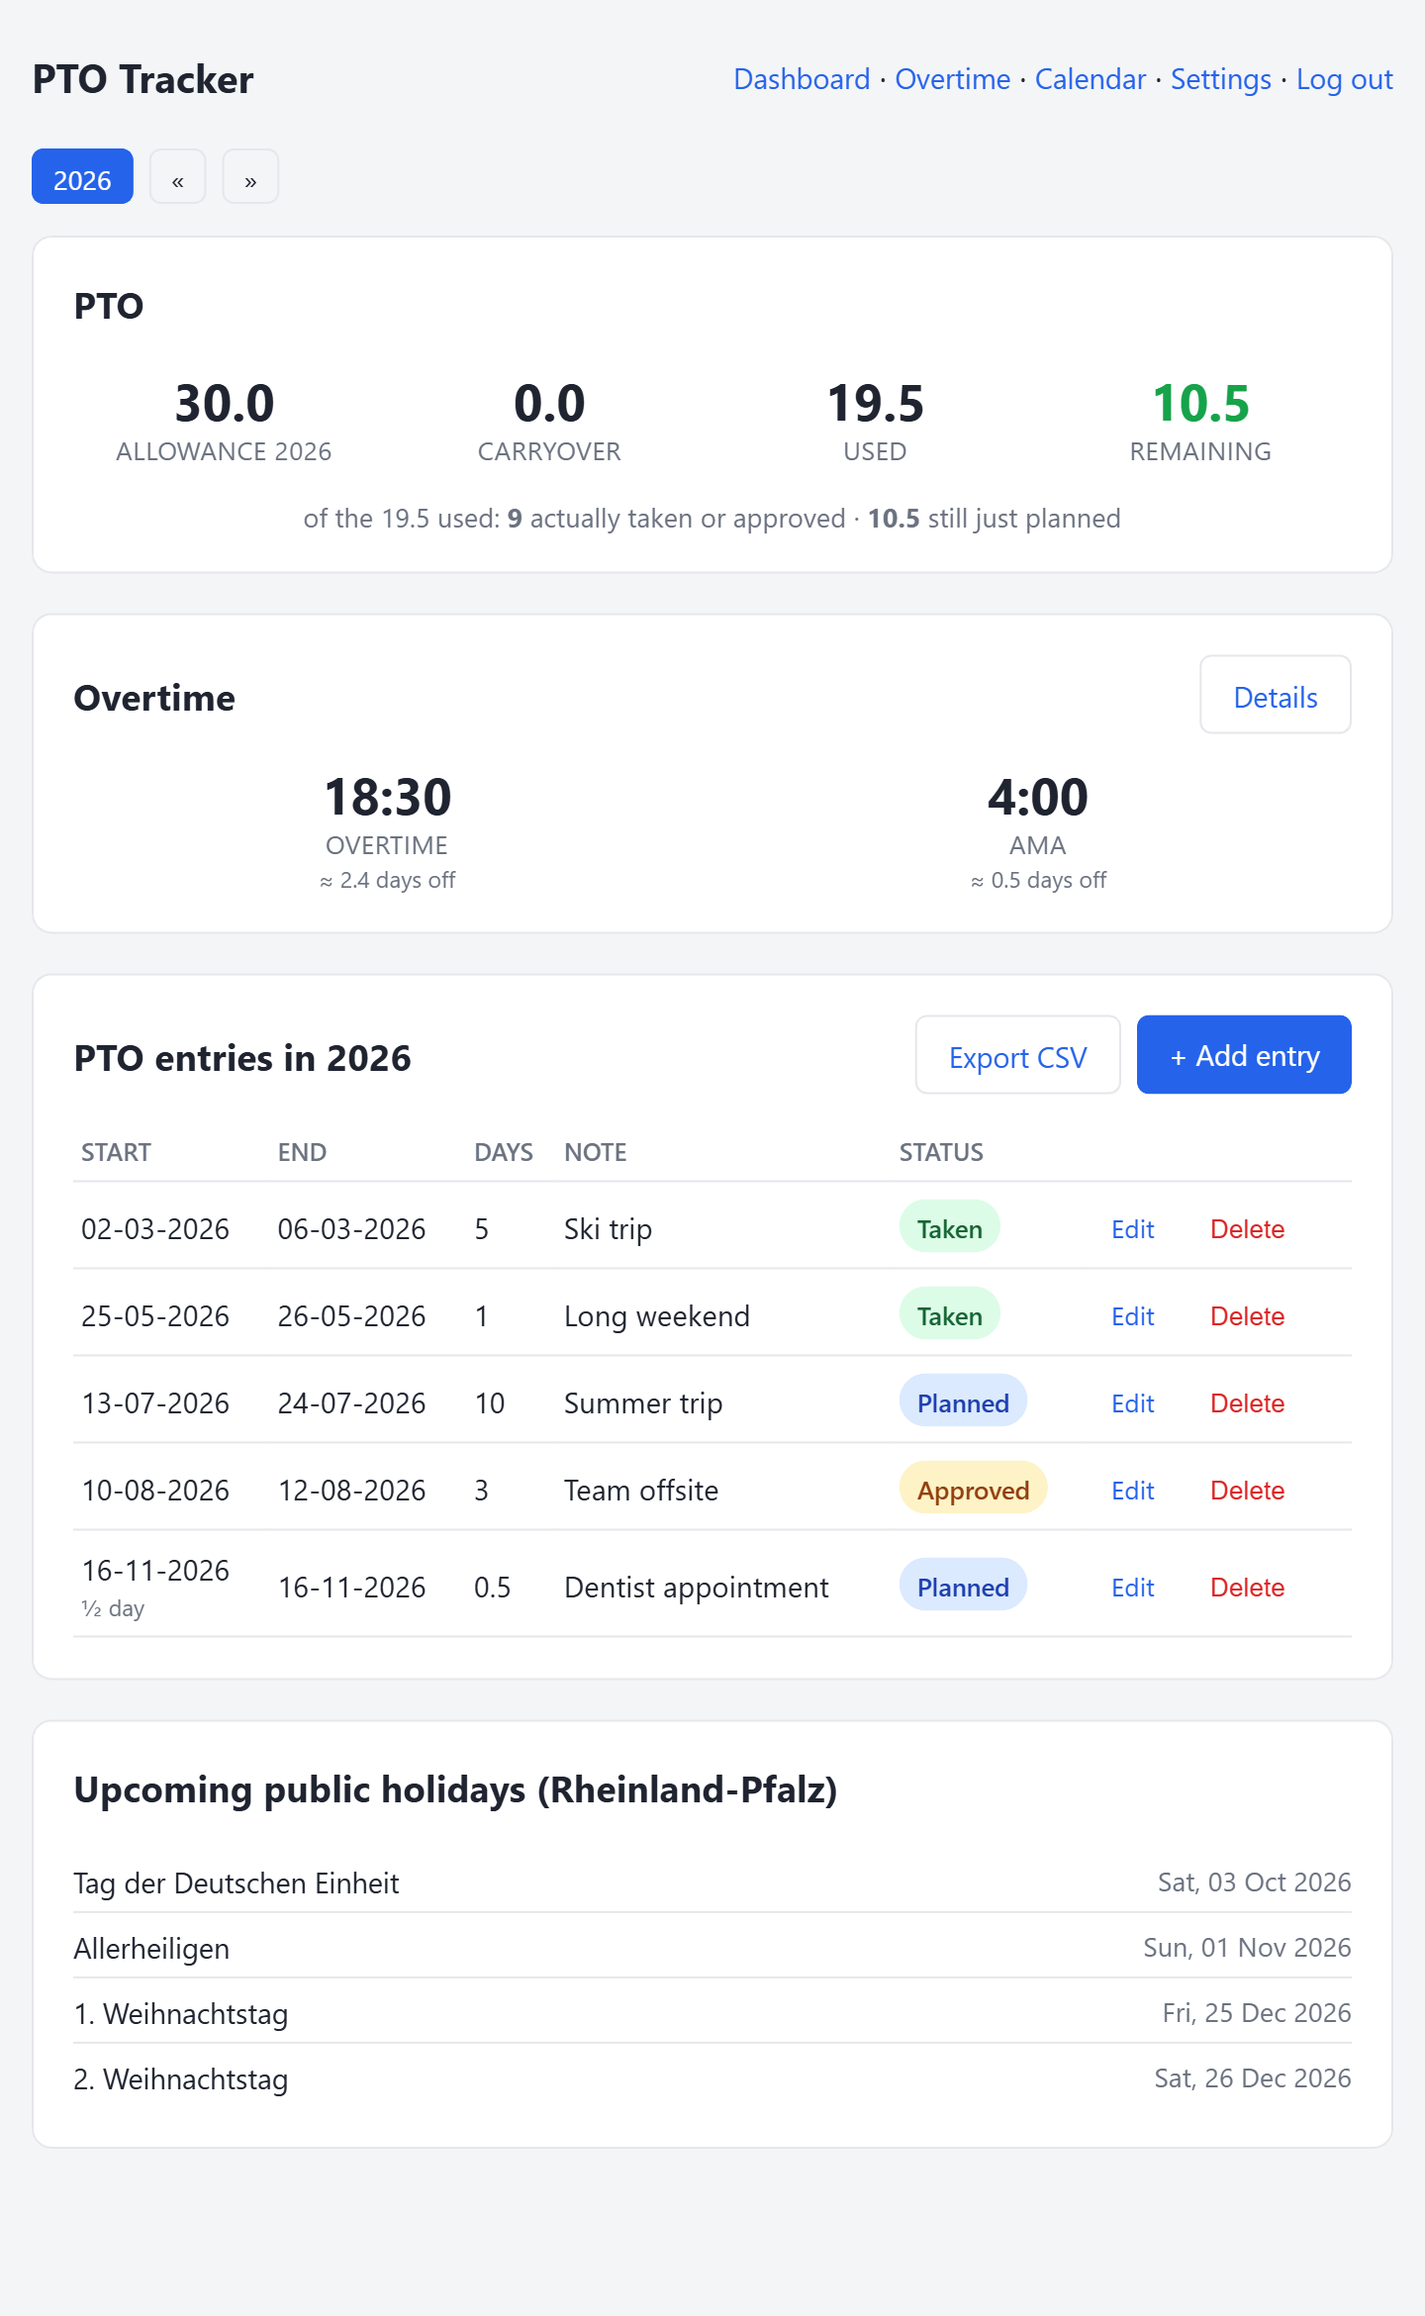
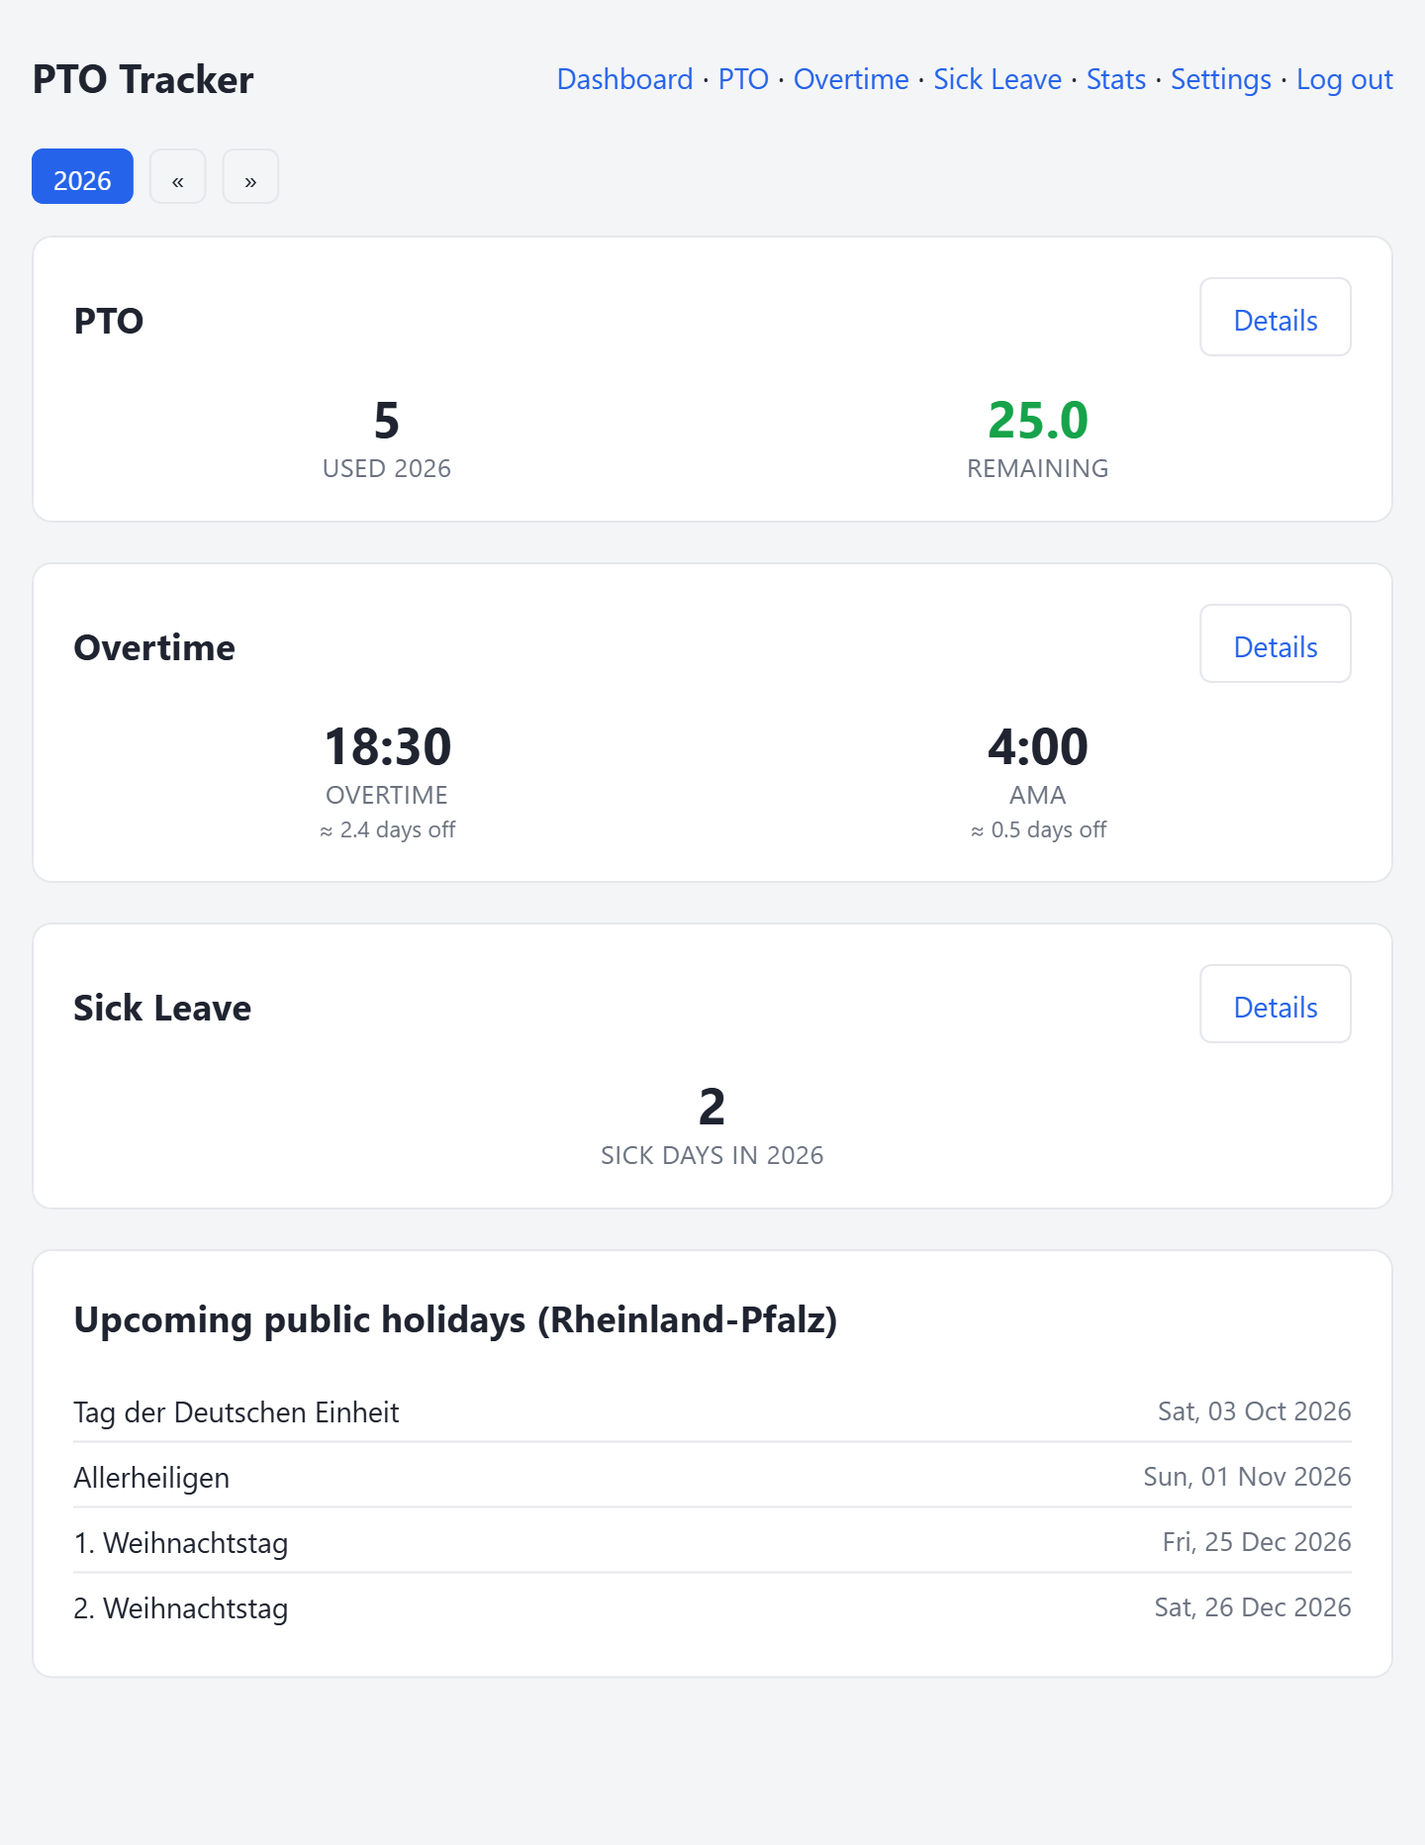
Split PTO management out of the dashboard into its own tab
/ is now a lean overview — compact PTO/overtime/sick-leave tiles
(each with a "Details" link) plus upcoming holidays — matching what
Overtime and Sick Leave have always looked like from the dashboard.
Everything for actually managing PTO (the full allowance/carryover/
used/remaining stats, the entries table, add/edit/delete, status
changes, CSV export) moves to a new /pto route and its own "PTO" nav
link, mirroring how Overtime and Sick Leave already work as
self-contained tabs rather than being special-cased onto /.

All the PTO mutation redirects (add, edit, delete, status change, and
the allowance-override save) now land back on /pto instead of /,
since that's where you'd actually want to see the result.

Also refreshed the README screenshot, since the old one showed the
entries table that's no longer on this page at all.

diff --git a/templates/dashboard.html b/templates/dashboard.html
@@ -11,28 +11,20 @@
 </div>
 
 <div class="card">
-  <h3 style="margin-top:0;">PTO</h3>
-  <div class="stats">
-    <div class="stat">
-      <div class="value">{{ allowance | round(1) }}</div>
-      <div class="label">Allowance {{ year }}</div>
-    </div>
-    <div class="stat">
-      <div class="value">{{ carryover | round(1) }}</div>
-      <div class="label">Carryover</div>
-    </div>
+  <div class="card-header-row">
+    <h3 style="margin:0;">PTO</h3>
+    <a class="btn secondary" href="{{ url_for('pto_entries', year=year) }}">Details</a>
+  </div>
+  <div class="stats stats-2">
     <div class="stat">
       <div class="value">{{ used }}</div>
-      <div class="label">Used</div>
+      <div class="label">Used {{ year }}</div>
     </div>
     <div class="stat remaining {{ 'negative' if remaining < 0 else '' }}">
       <div class="value">{{ remaining | round(1) }}</div>
       <div class="label">Remaining</div>
     </div>
   </div>
-  <p class="muted" style="text-align:center; margin:16px 0 0;">
-    of the {{ used }} used: <strong>{{ taken }}</strong> actually taken or approved &middot; <strong>{{ planned }}</strong> still just planned
-  </p>
 </div>
 
 <div class="card">
@@ -68,59 +60,6 @@
   </div>
 </div>
 {% endif %}
-
-<div class="card">
-  <div class="card-header-row">
-    <h3 style="margin:0;">PTO entries in {{ year }}</h3>
-    <div style="display:flex; gap:8px; flex-wrap:wrap;">
-      <a class="btn secondary" href="{{ url_for('export_pto_csv') }}">Export CSV</a>
-      <a class="btn" href="{{ url_for('add_entry') }}">+ Add entry</a>
-    </div>
-  </div>
-  {% if entries %}
-  <table class="entries-table">
-    <thead><tr><th>Start</th><th>End</th><th>Days</th><th>Note</th><th>Status</th><th></th></tr></thead>
-    <tbody>
-      {% for e in entries %}
-      <tr>
-        <td data-label="Start">
-          {{ e.start_display }}
-          {% if e.half_day == "start" %}<span class="badge-half">&frac12; day</span>{% endif %}
-          {% if e.continued_from %}<span class="badge-continue">&larr; continued from {{ e.continued_from }}</span>{% endif %}
-        </td>
-        <td data-label="End">
-          {{ e.end_display }}
-          {% if e.half_day == "end" %}<span class="badge-half">&frac12; day</span>{% endif %}
-          {% if e.continues_into %}<span class="badge-continue">&rarr; continues into {{ e.continues_into }}</span>{% endif %}
-        </td>
-        <td data-label="Days">{{ e.days }}</td>
-        <td data-label="Note">{{ e.note or "" }}</td>
-        <td data-label="Status">
-          <form class="inline" method="post" action="{{ url_for('update_entry_status', entry_id=e.id, year=year) }}">
-            <input type="hidden" name="csrf_token" value="{{ csrf_token() }}">
-            <select name="status" class="status-select status-{{ e.status }}" onchange="this.form.submit()">
-              {% for s in statuses %}
-              <option value="{{ s }}" {{ "selected" if e.status == s else "" }}>{{ s | capitalize }}</option>
-              {% endfor %}
-            </select>
-          </form>
-        </td>
-        <td class="actions-cell">
-          <a class="btn edit" href="{{ url_for('edit_entry', entry_id=e.id) }}">Edit</a>
-          <form class="inline" method="post" action="{{ url_for('delete_entry', entry_id=e.id, year=year) }}"
-                onsubmit="return confirm('Delete this entry?{{ ' This spans multiple years — both parts will be deleted.' if e.group_id else '' }}');">
-            <input type="hidden" name="csrf_token" value="{{ csrf_token() }}">
-            <button class="btn danger" type="submit">Delete</button>
-          </form>
-        </td>
-      </tr>
-      {% endfor %}
-    </tbody>
-  </table>
-  {% else %}
-  <p class="muted">No PTO recorded for {{ year }} yet.</p>
-  {% endif %}
-</div>
 
 <div class="card">
   <h3 style="margin-top:0;">Upcoming public holidays ({{ holiday_state_name }})</h3>

diff --git a/templates/pto.html b/templates/pto.html
@@ -1,0 +1,91 @@
+{% extends "base.html" %}
+{% block title %}PTO{% endblock %}
+{% block content %}
+
+<div class="year-switch">
+  {% for y in years %}
+    <a href="{{ url_for('pto_entries', year=y) }}" class="{{ 'active' if y == year else '' }}">{{ y }}</a>
+  {% endfor %}
+  <a href="{{ url_for('pto_entries', year=year - 1) }}">&laquo;</a>
+  <a href="{{ url_for('pto_entries', year=year + 1) }}">&raquo;</a>
+</div>
+
+<div class="card">
+  <h3 style="margin-top:0;">PTO</h3>
+  <div class="stats">
+    <div class="stat">
+      <div class="value">{{ allowance | round(1) }}</div>
+      <div class="label">Allowance {{ year }}</div>
+    </div>
+    <div class="stat">
+      <div class="value">{{ carryover | round(1) }}</div>
+      <div class="label">Carryover</div>
+    </div>
+    <div class="stat">
+      <div class="value">{{ used }}</div>
+      <div class="label">Used</div>
+    </div>
+    <div class="stat remaining {{ 'negative' if remaining < 0 else '' }}">
+      <div class="value">{{ remaining | round(1) }}</div>
+      <div class="label">Remaining</div>
+    </div>
+  </div>
+  <p class="muted" style="text-align:center; margin:16px 0 0;">
+    of the {{ used }} used: <strong>{{ taken }}</strong> actually taken or approved &middot; <strong>{{ planned }}</strong> still just planned
+  </p>
+</div>
+
+<div class="card">
+  <div class="card-header-row">
+    <h3 style="margin:0;">PTO entries in {{ year }}</h3>
+    <div style="display:flex; gap:8px; flex-wrap:wrap;">
+      <a class="btn secondary" href="{{ url_for('export_pto_csv') }}">Export CSV</a>
+      <a class="btn" href="{{ url_for('add_entry') }}">+ Add entry</a>
+    </div>
+  </div>
+  {% if entries %}
+  <table class="entries-table">
+    <thead><tr><th>Start</th><th>End</th><th>Days</th><th>Note</th><th>Status</th><th></th></tr></thead>
+    <tbody>
+      {% for e in entries %}
+      <tr>
+        <td data-label="Start">
+          {{ e.start_display }}
+          {% if e.half_day == "start" %}<span class="badge-half">&frac12; day</span>{% endif %}
+          {% if e.continued_from %}<span class="badge-continue">&larr; continued from {{ e.continued_from }}</span>{% endif %}
+        </td>
+        <td data-label="End">
+          {{ e.end_display }}
+          {% if e.half_day == "end" %}<span class="badge-half">&frac12; day</span>{% endif %}
+          {% if e.continues_into %}<span class="badge-continue">&rarr; continues into {{ e.continues_into }}</span>{% endif %}
+        </td>
+        <td data-label="Days">{{ e.days }}</td>
+        <td data-label="Note">{{ e.note or "" }}</td>
+        <td data-label="Status">
+          <form class="inline" method="post" action="{{ url_for('update_entry_status', entry_id=e.id, year=year) }}">
+            <input type="hidden" name="csrf_token" value="{{ csrf_token() }}">
+            <select name="status" class="status-select status-{{ e.status }}" onchange="this.form.submit()">
+              {% for s in statuses %}
+              <option value="{{ s }}" {{ "selected" if e.status == s else "" }}>{{ s | capitalize }}</option>
+              {% endfor %}
+            </select>
+          </form>
+        </td>
+        <td class="actions-cell">
+          <a class="btn edit" href="{{ url_for('edit_entry', entry_id=e.id) }}">Edit</a>
+          <form class="inline" method="post" action="{{ url_for('delete_entry', entry_id=e.id, year=year) }}"
+                onsubmit="return confirm('Delete this entry?{{ ' This spans multiple years — both parts will be deleted.' if e.group_id else '' }}');">
+            <input type="hidden" name="csrf_token" value="{{ csrf_token() }}">
+            <button class="btn danger" type="submit">Delete</button>
+          </form>
+        </td>
+      </tr>
+      {% endfor %}
+    </tbody>
+  </table>
+  {% else %}
+  <p class="muted">No PTO recorded for {{ year }} yet.</p>
+  {% endif %}
+</div>
+
+{% endblock %}

diff --git a/templates/add_entry.html b/templates/add_entry.html
@@ -28,7 +28,7 @@
     <p class="muted" style="margin-top:6px;">An entry spanning New Year's is automatically split into one part per year (e.g. 21 Dec &ndash; 10 Jan becomes two linked entries), so each year's balance reflects only its own days.{% if is_split %} This entry is already split &mdash; editing it here edits the whole date range and re-splits it on save.{% endif %}</p>
     <p style="margin-top:16px;">
       <button class="btn" type="submit">{{ 'Save changes' if entry else 'Save' }}</button>
-      <a class="btn secondary" href="{{ url_for('dashboard') }}">Cancel</a>
+      <a class="btn secondary" href="{{ url_for('pto_entries') }}">Cancel</a>
     </p>
   </form>
 </div>

diff --git a/templates/base.html b/templates/base.html
@@ -13,6 +13,7 @@
       {% if session.get('logged_in') %}
       <nav>
         <a href="{{ url_for('dashboard') }}">Dashboard</a> &middot;
+        <a href="{{ url_for('pto_entries') }}">PTO</a> &middot;
         <a href="{{ url_for('overtime') }}">Overtime</a> &middot;
         {% if sick_leave_enabled %}
         <a href="{{ url_for('sick_leave') }}">Sick Leave</a> &middot;

diff --git a/app.py b/app.py
@@ -653,15 +653,10 @@ def logout():
 @login_required
 def dashboard():
     year = int(request.args.get("year", date.today().year))
-    entry_rows = _entries_with_days(year)
-    used = sum(e["days"] for e in entry_rows)
-    # "approved" counts the same as "taken" for this breakdown — both are
-    # committed, only "planned" is still tentative.
-    taken = sum(e["days"] for e in entry_rows if e["status"] in ("taken", "approved"))
-    planned = used - taken
-
     allowance = get_allowance(year)
     carryover = get_carryover(year)
+    used = compute_used(year)
+
     state = get_holiday_state()
     all_holidays = {**state_holidays(date.today().year, state), **extra_holidays_for_years(date.today().year, date.today().year)}
     upcoming_holidays = sorted((d, name) for d, name in all_holidays.items() if d >= date.today())
@@ -677,6 +672,33 @@ def dashboard():
     return render_template(
         "dashboard.html",
         year=year,
+        used=used,
+        remaining=allowance + carryover - used,
+        upcoming_holidays=upcoming_holidays,
+        years=_years_with_data(),
+        holiday_state_name=GERMAN_STATES[state],
+        overtime_balances_hhmm={acc: hours_to_hhmm(v) for acc, v in overtime_balances.items()},
+        overtime_balances_days=overtime_balances_days,
+        sick_used=sick_used,
+    )
+
+
+@app.route("/pto")
+@login_required
+def pto_entries():
+    year = int(request.args.get("year", date.today().year))
+    entry_rows = _entries_with_days(year)
+    used = sum(e["days"] for e in entry_rows)
+    # "approved" counts the same as "taken" for this breakdown — both are
+    # committed, only "planned" is still tentative.
+    taken = sum(e["days"] for e in entry_rows if e["status"] in ("taken", "approved"))
+    planned = used - taken
+    allowance = get_allowance(year)
+    carryover = get_carryover(year)
+
+    return render_template(
+        "pto.html",
+        year=year,
         allowance=allowance,
         carryover=carryover,
         used=used,
@@ -684,13 +706,9 @@ def dashboard():
         planned=planned,
         remaining=allowance + carryover - used,
         entries=entry_rows,
-        upcoming_holidays=upcoming_holidays,
         years=_years_with_data(),
         statuses=ENTRY_STATUSES,
-        holiday_state_name=GERMAN_STATES[state],
-        overtime_balances_hhmm={acc: hours_to_hhmm(v) for acc, v in overtime_balances.items()},
-        overtime_balances_days=overtime_balances_days,
-        sick_used=sick_used,
+        holiday_state_name=GERMAN_STATES[get_holiday_state()],
     )
 
 
@@ -796,7 +814,7 @@ def add_entry():
             else:
                 _insert_pto_entry(start, end, note, status, half_day)
                 get_db().commit()
-                return redirect(url_for("dashboard", year=start.year))
+                return redirect(url_for("pto_entries", year=start.year))
     return render_template(
         "add_entry.html",
         error=error,
@@ -812,7 +830,7 @@ def add_entry():
 def edit_entry(entry_id):
     row, group_rows = _pto_entry_group(entry_id)
     if row is None:
-        return redirect(url_for("dashboard"))
+        return redirect(url_for("pto_entries"))
     group_ids = [r["id"] for r in group_rows]
     is_split = len(group_rows) > 1
     entry = {
@@ -860,7 +878,7 @@ def edit_entry(entry_id):
                 )
                 _insert_pto_entry(start, end, note, status, half_day)
                 db.commit()
-                return redirect(url_for("dashboard", year=start.year))
+                return redirect(url_for("pto_entries", year=start.year))
     return render_template(
         "add_entry.html",
         error=error,
@@ -886,7 +904,7 @@ def update_entry_status(entry_id):
             else:
                 db.execute("UPDATE pto_entries SET status = ? WHERE id = ?", (status, entry_id))
             db.commit()
-    return redirect(url_for("dashboard", year=year))
+    return redirect(url_for("pto_entries", year=year))
 
 
 @app.route("/entries/<int:entry_id>/delete", methods=["POST"])
@@ -901,7 +919,7 @@ def delete_entry(entry_id):
         else:
             db.execute("DELETE FROM pto_entries WHERE id = ?", (entry_id,))
         db.commit()
-    return redirect(url_for("dashboard", year=year))
+    return redirect(url_for("pto_entries", year=year))
 
 
 @app.route("/entries/export.csv")
@@ -1606,7 +1624,7 @@ def allowance():
                 (year, days),
             )
             db.commit()
-            return redirect(url_for("dashboard", year=year))
+            return redirect(url_for("pto_entries", year=year))
     rows = get_db().execute("SELECT * FROM allowances ORDER BY year DESC").fetchall()
     carryover_rows = get_db().execute("SELECT * FROM carryover ORDER BY year DESC").fetchall()
     return render_template(

diff --git a/README.md b/README.md
@@ -13,12 +13,16 @@ system, no database server, no build step — just Python and SQLite.
 - **Light or dark, your choice.** Follows your browser/OS setting
   automatically by default; override it to always-light or always-dark in
   Settings if you'd rather it not follow the system.
+- **An actual dashboard, separate from PTO management.** `/` is a quick
+  overview — compact PTO/overtime/sick-leave tiles and upcoming holidays —
+  while adding, editing, and browsing PTO entries lives on its own PTO tab,
+  the same way Overtime and Sick Leave already have theirs.
 - **German public holidays, computed automatically.** Pick your federal state
   in Settings (defaults to Rheinland-Pfalz) — weekends and that state's
   holidays are excluded automatically when counting days used, for any year,
   no yearly maintenance.
 - **Planned, approved, or taken.** Every entry has a status. All three count
-  against your balance, and the dashboard breaks out how many of the used
+  against your balance, and the PTO tab breaks out how many of the used
   days are taken-or-approved versus still just planned (approved counts the
   same as taken there — both are committed) — change the status inline as
   plans firm up. Entries can be edited or deleted after the fact, and
@@ -28,7 +32,7 @@ system, no database server, no build step — just Python and SQLite.
   instead of a full one.
 - **Entries spanning New Year's are split automatically**, one part per
   calendar year, so each year's balance only reflects its own days — the
-  dashboard shows a "continues into"/"continued from" note linking the parts,
+  PTO tab shows a "continues into"/"continued from" note linking the parts,
   and editing, deleting, or changing status on either part acts on both.
 - **Automatic carryover.** Whatever's left of one year's balance
   (allowance + its own carryover − used) rolls into the next year on its own.
